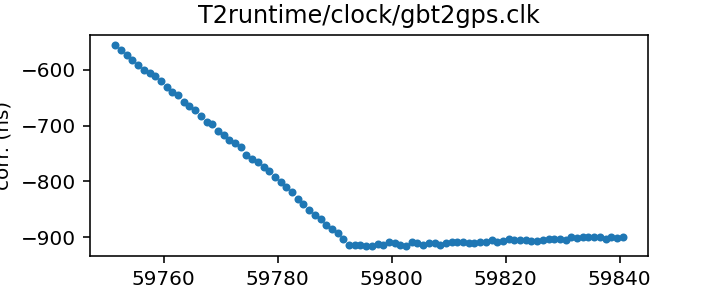
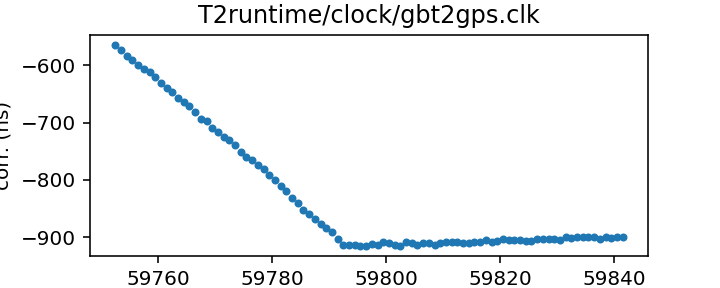
Routine gh-pages update from Github action Tue Sep 20 20:39:39 UTC 2022

diff --git a/status.md b/status.md
@@ -13,17 +13,17 @@ name of each clock file links to a page with more details.
 
 | Name | File | Corrections start | Corrections end | Last check date | Last check result 
 |:--- |:--- | --- | --- | --- |:--- 
-| [GPS to UTC](T2runtime/clock/gps2utc.clk.html) | `T2runtime/clock/gps2utc.clk` | 1993-01-01 MJD 48988.0 | 2022-08-28 MJD 59819.0 | 2022-09-19 | Unchanged 
-| [GPS to UTC (Combined Clock)](T2runtime/clock/gps2utc_cc.clk.html) | `T2runtime/clock/gps2utc_cc.clk` | 1993-01-01 MJD 48988.0 | 2022-08-28 MJD 59819.0 | 2022-09-19 | Unchanged 
-| [GPS to UTC (Corrected)](T2runtime/clock/gps2utc_c0p.clk.html) | `T2runtime/clock/gps2utc_c0p.clk` | 2010-12-29 MJD 55559.0 | 2022-08-28 MJD 59819.0 | 2022-09-19 | Unchanged 
-| [GBT](tempo/clock/time_gbt.dat.html) | `tempo/clock/time_gbt.dat` | 2000-12-31 MJD 51909.5 | 2022-09-18 MJD 59840.5 | 2022-09-19 | Updated 
-| [GBT (TEMPO2 converted from TEMPO)](T2runtime/clock/gbt2gps.clk.html) | `T2runtime/clock/gbt2gps.clk` | 2000-12-31 MJD 51909.5 | 2022-09-18 MJD 59840.5 | 2022-09-19 | Updated 
+| [GPS to UTC](T2runtime/clock/gps2utc.clk.html) | `T2runtime/clock/gps2utc.clk` | 1993-01-01 MJD 48988.0 | 2022-08-28 MJD 59819.0 | 2022-09-20 | Unchanged 
+| [GPS to UTC (Combined Clock)](T2runtime/clock/gps2utc_cc.clk.html) | `T2runtime/clock/gps2utc_cc.clk` | 1993-01-01 MJD 48988.0 | 2022-08-28 MJD 59819.0 | 2022-09-20 | Unchanged 
+| [GPS to UTC (Corrected)](T2runtime/clock/gps2utc_c0p.clk.html) | `T2runtime/clock/gps2utc_c0p.clk` | 2010-12-29 MJD 55559.0 | 2022-08-28 MJD 59819.0 | 2022-09-20 | Unchanged 
+| [GBT](tempo/clock/time_gbt.dat.html) | `tempo/clock/time_gbt.dat` | 2000-12-31 MJD 51909.5 | 2022-09-19 MJD 59841.5 | 2022-09-20 | Updated 
+| [GBT (TEMPO2 converted from TEMPO)](T2runtime/clock/gbt2gps.clk.html) | `T2runtime/clock/gbt2gps.clk` | 2000-12-31 MJD 51909.5 | 2022-09-19 MJD 59841.5 | 2022-09-20 | Updated 
 | [Jodrell Bank](T2runtime/clock/jb2gps.clk.html) | `T2runtime/clock/jb2gps.clk` | 2006-10-13 MJD 54021.4 | 2021-11-03 MJD 59521.0 | 2022-09-14 | Unchanged 
 | [Jodrell Bank Roach](T2runtime/clock/jbroach2jb.clk.html) | `T2runtime/clock/jbroach2jb.clk` | 2006-10-13 MJD 54021.4 | 2018-03-20 MJD 58197.6 | 2022-09-14 | Unchanged 
 | [Jodrell Bank DFB](T2runtime/clock/jbdfb2jb.clk.html) | `T2runtime/clock/jbdfb2jb.clk` | 2006-10-13 MJD 54021.4 | 2017-05-11 MJD 57884.0 | 2022-09-14 | Unchanged 
 | [Meerkat (observatory)](T2runtime/clock/mk2utc_observatory.clk.html) | `T2runtime/clock/mk2utc_observatory.clk` | 2019-01-01 MJD 58484.0 | 2022-08-28 MJD 59820.0 | 2022-09-19 | Updated 
-| [Leap seconds](tempo/clock/leap.sec.html) | `tempo/clock/leap.sec` | 1972-07-01 MJD 41499.0 | 2017-01-01 MJD 57754.0 | 2022-09-19 | Unchanged 
-| [UT1 table](tempo/clock/ut1.dat.html) | `tempo/clock/ut1.dat` | 1973-01-02 MJD 41684.0 | 2023-09-23 MJD 60210.0 | 2022-09-19 | Unchanged 
+| [Leap seconds](tempo/clock/leap.sec.html) | `tempo/clock/leap.sec` | 1972-07-01 MJD 41499.0 | 2017-01-01 MJD 57754.0 | 2022-09-20 | Unchanged 
+| [UT1 table](tempo/clock/ut1.dat.html) | `tempo/clock/ut1.dat` | 1973-01-02 MJD 41684.0 | 2023-09-23 MJD 60210.0 | 2022-09-20 | Unchanged 
 
 
 

diff --git a/T2runtime/clock/gbt2gps.clk.md b/T2runtime/clock/gbt2gps.clk.md
@@ -23,14 +23,13 @@ If questions arise about the conversion, contact Anne Archibald
 | Format | tempo2 |
 | Bogus last correction | False |
 | Clock file start | 2000-12-31 MJD 51909.5 |
-| Clock file end | 2022-09-18 MJD 59840.5 |
+| Clock file end | 2022-09-19 MJD 59841.5 |
 | Update interval (days) | 1 |
-| Last update attempt | 2022-09-19 |
+| Last update attempt | 2022-09-20 |
 | Last update result | Updated |
 
 Log entries from the last few update attempts:
 ```
-2022-09-10 20:36:43.474 - Updated
 2022-09-11 20:36:52.202 - Updated
 2022-09-12 20:38:21.941 - Updated
 2022-09-13 20:37:38.241 - Updated
@@ -40,12 +39,13 @@ Log entries from the last few update attempts:
 2022-09-17 20:36:45.168 - Updated
 2022-09-18 20:37:36.239 - Updated
 2022-09-19 20:40:30.048 - Updated
+2022-09-20 20:39:15.654 - Updated
 ```
 [Full log](https://raw.githubusercontent.com/ipta/pulsar-clock-corrections/main/log/T2runtime/clock/gbt2gps.clk.log)
 
 Leading comments from clock file:
 
-    # This file was automatically converted from tempo/clock/time_gbt.dat on 2022-09-19 20:40:29.968
+    # This file was automatically converted from tempo/clock/time_gbt.dat on 2022-09-20 20:39:15.584
 
 
 

diff --git a/tempo/clock/time_gbt.dat.md b/tempo/clock/time_gbt.dat.md
@@ -18,14 +18,13 @@ If questions arise, contact Ryan S. Lynch <rlynch@nrao.edu>.
 | Format | tempo |
 | Bogus last correction | False |
 | Clock file start | 2000-12-31 MJD 51909.5 |
-| Clock file end | 2022-09-18 MJD 59840.5 |
+| Clock file end | 2022-09-19 MJD 59841.5 |
 | Update interval (days) | 1 |
-| Last update attempt | 2022-09-19 |
+| Last update attempt | 2022-09-20 |
 | Last update result | Updated |
 
 Log entries from the last few update attempts:
 ```
-2022-09-10 20:36:43.384 - Updated
 2022-09-11 20:36:52.132 - Updated
 2022-09-12 20:38:21.645 - Updated
 2022-09-13 20:37:38.154 - Updated
@@ -35,6 +34,7 @@ Log entries from the last few update attempts:
 2022-09-17 20:36:45.098 - Updated
 2022-09-18 20:37:36.165 - Updated
 2022-09-19 20:40:29.461 - Updated
+2022-09-20 20:39:15.581 - Updated
 ```
 [Full log](https://raw.githubusercontent.com/ipta/pulsar-clock-corrections/main/log/tempo/clock/time_gbt.dat.log)
 

diff --git a/T2runtime/clock/gps2utc_c0p.clk.md b/T2runtime/clock/gps2utc_c0p.clk.md
@@ -30,12 +30,11 @@ about the BIPM's published corrections, contact <tai@bipm.org>.
 | Clock file start | 2010-12-29 MJD 55559.0 |
 | Clock file end | 2022-08-28 MJD 59819.0 |
 | Update interval (days) | 1 |
-| Last update attempt | 2022-09-19 |
+| Last update attempt | 2022-09-20 |
 | Last update result | Unchanged |
 
 Log entries from the last few update attempts:
 ```
-2022-09-10 20:36:42.421 - Unchanged
 2022-09-11 20:36:51.441 - Unchanged
 2022-09-12 20:38:20.855 - Unchanged
 2022-09-13 20:37:37.256 - Unchanged
@@ -45,6 +44,7 @@ Log entries from the last few update attempts:
 2022-09-17 20:36:44.652 - Unchanged
 2022-09-18 20:37:35.426 - Unchanged
 2022-09-19 20:40:28.579 - Unchanged
+2022-09-20 20:39:15.031 - Unchanged
 ```
 [Full log](https://raw.githubusercontent.com/ipta/pulsar-clock-corrections/main/log/T2runtime/clock/gps2utc_c0p.clk.log)
 

diff --git a/T2runtime/clock/gps2utc_cc.clk.md b/T2runtime/clock/gps2utc_cc.clk.md
@@ -29,12 +29,11 @@ about the BIPM's published corrections, contact <tai@bipm.org>.
 | Clock file start | 1993-01-01 MJD 48988.0 |
 | Clock file end | 2022-08-28 MJD 59819.0 |
 | Update interval (days) | 1 |
-| Last update attempt | 2022-09-19 |
+| Last update attempt | 2022-09-20 |
 | Last update result | Unchanged |
 
 Log entries from the last few update attempts:
 ```
-2022-09-10 20:36:42.407 - Unchanged
 2022-09-11 20:36:51.430 - Unchanged
 2022-09-12 20:38:20.842 - Unchanged
 2022-09-13 20:37:37.243 - Unchanged
@@ -44,6 +43,7 @@ Log entries from the last few update attempts:
 2022-09-17 20:36:44.641 - Unchanged
 2022-09-18 20:37:35.414 - Unchanged
 2022-09-19 20:40:28.567 - Unchanged
+2022-09-20 20:39:15.020 - Unchanged
 ```
 [Full log](https://raw.githubusercontent.com/ipta/pulsar-clock-corrections/main/log/T2runtime/clock/gps2utc_cc.clk.log)
 

diff --git a/T2runtime/clock/gps2utc.clk.md b/T2runtime/clock/gps2utc.clk.md
@@ -32,12 +32,11 @@ about the BIPM's published corrections, contact <tai@bipm.org>.
 | Clock file start | 1993-01-01 MJD 48988.0 |
 | Clock file end | 2022-08-28 MJD 59819.0 |
 | Update interval (days) | 1 |
-| Last update attempt | 2022-09-19 |
+| Last update attempt | 2022-09-20 |
 | Last update result | Unchanged |
 
 Log entries from the last few update attempts:
 ```
-2022-09-10 20:36:42.366 - Unchanged
 2022-09-11 20:36:51.397 - Unchanged
 2022-09-12 20:38:20.800 - Unchanged
 2022-09-13 20:37:37.203 - Unchanged
@@ -47,6 +46,7 @@ Log entries from the last few update attempts:
 2022-09-17 20:36:44.609 - Unchanged
 2022-09-18 20:37:35.380 - Unchanged
 2022-09-19 20:40:28.529 - Unchanged
+2022-09-20 20:39:14.988 - Unchanged
 ```
 [Full log](https://raw.githubusercontent.com/ipta/pulsar-clock-corrections/main/log/T2runtime/clock/gps2utc.clk.log)
 

diff --git a/tempo/clock/leap.sec.md b/tempo/clock/leap.sec.md
@@ -21,12 +21,11 @@ If there are any questions, contact Anne Archibald
 | File start | 1972-07-01 MJD 41499.0 |
 | File end | 2017-01-01 MJD 57754.0 |
 | Update interval (days) | 0 |
-| Last update attempt | 2022-09-19 |
+| Last update attempt | 2022-09-20 |
 | Last update result | Unchanged |
 
 Log entries from the last few update attempts:
 ```
-2022-09-10 20:36:43.525 - Unchanged
 2022-09-11 20:36:52.236 - Unchanged
 2022-09-12 20:38:32.980 - Unchanged
 2022-09-13 20:37:38.291 - Unchanged
@@ -36,5 +35,6 @@ Log entries from the last few update attempts:
 2022-09-17 20:36:45.201 - Unchanged
 2022-09-18 20:37:36.274 - Unchanged
 2022-09-19 20:40:34.429 - Unchanged
+2022-09-20 20:39:15.684 - Unchanged
 ```
 [Full log](https://raw.githubusercontent.com/ipta/pulsar-clock-corrections/main/log/tempo/clock/leap.sec.log)

diff --git a/tempo/clock/ut1.dat.md b/tempo/clock/ut1.dat.md
@@ -30,12 +30,11 @@ If there are any questions, contact Anne Archibald
 | File start | 1973-01-02 MJD 41684.0 |
 | File end | 2023-09-23 MJD 60210.0 |
 | Update interval (days) | 0 |
-| Last update attempt | 2022-09-19 |
+| Last update attempt | 2022-09-20 |
 | Last update result | Unchanged |
 
 Log entries from the last few update attempts:
 ```
-2022-09-10 20:36:56.168 - Unchanged
 2022-09-11 20:37:01.365 - Unchanged
 2022-09-12 20:38:40.801 - Unchanged
 2022-09-13 20:37:50.638 - Unchanged
@@ -45,5 +44,6 @@ Log entries from the last few update attempts:
 2022-09-17 20:36:53.806 - Unchanged
 2022-09-18 20:37:47.072 - Unchanged
 2022-09-19 20:40:52.761 - Unchanged
+2022-09-20 20:39:25.295 - Unchanged
 ```
 [Full log](https://raw.githubusercontent.com/ipta/pulsar-clock-corrections/main/log/tempo/clock/ut1.dat.log)
